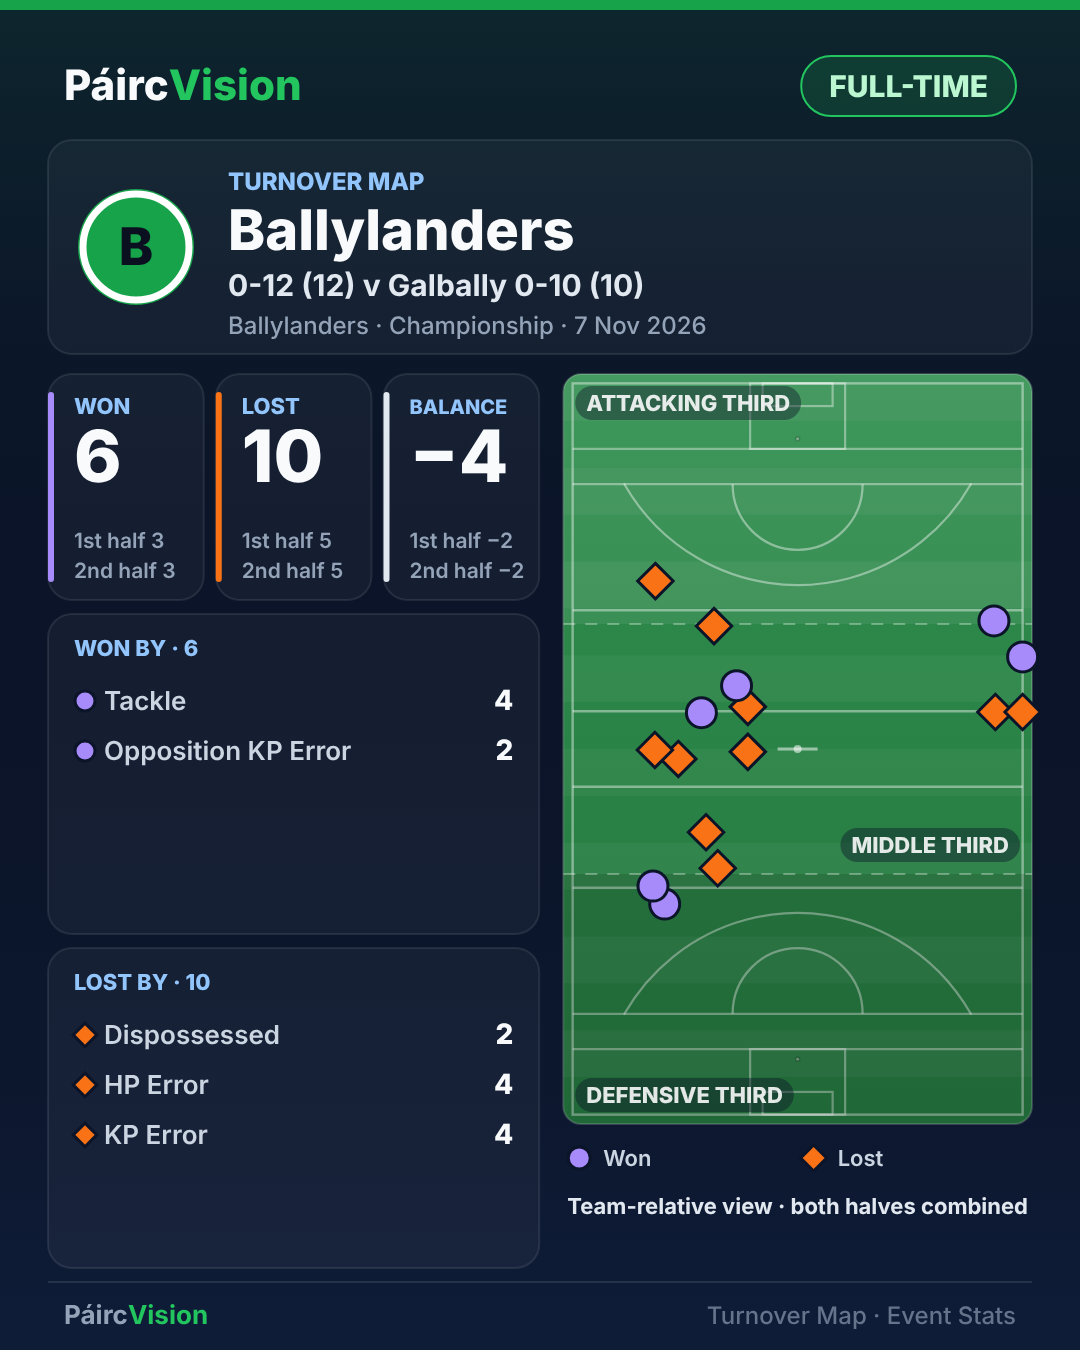
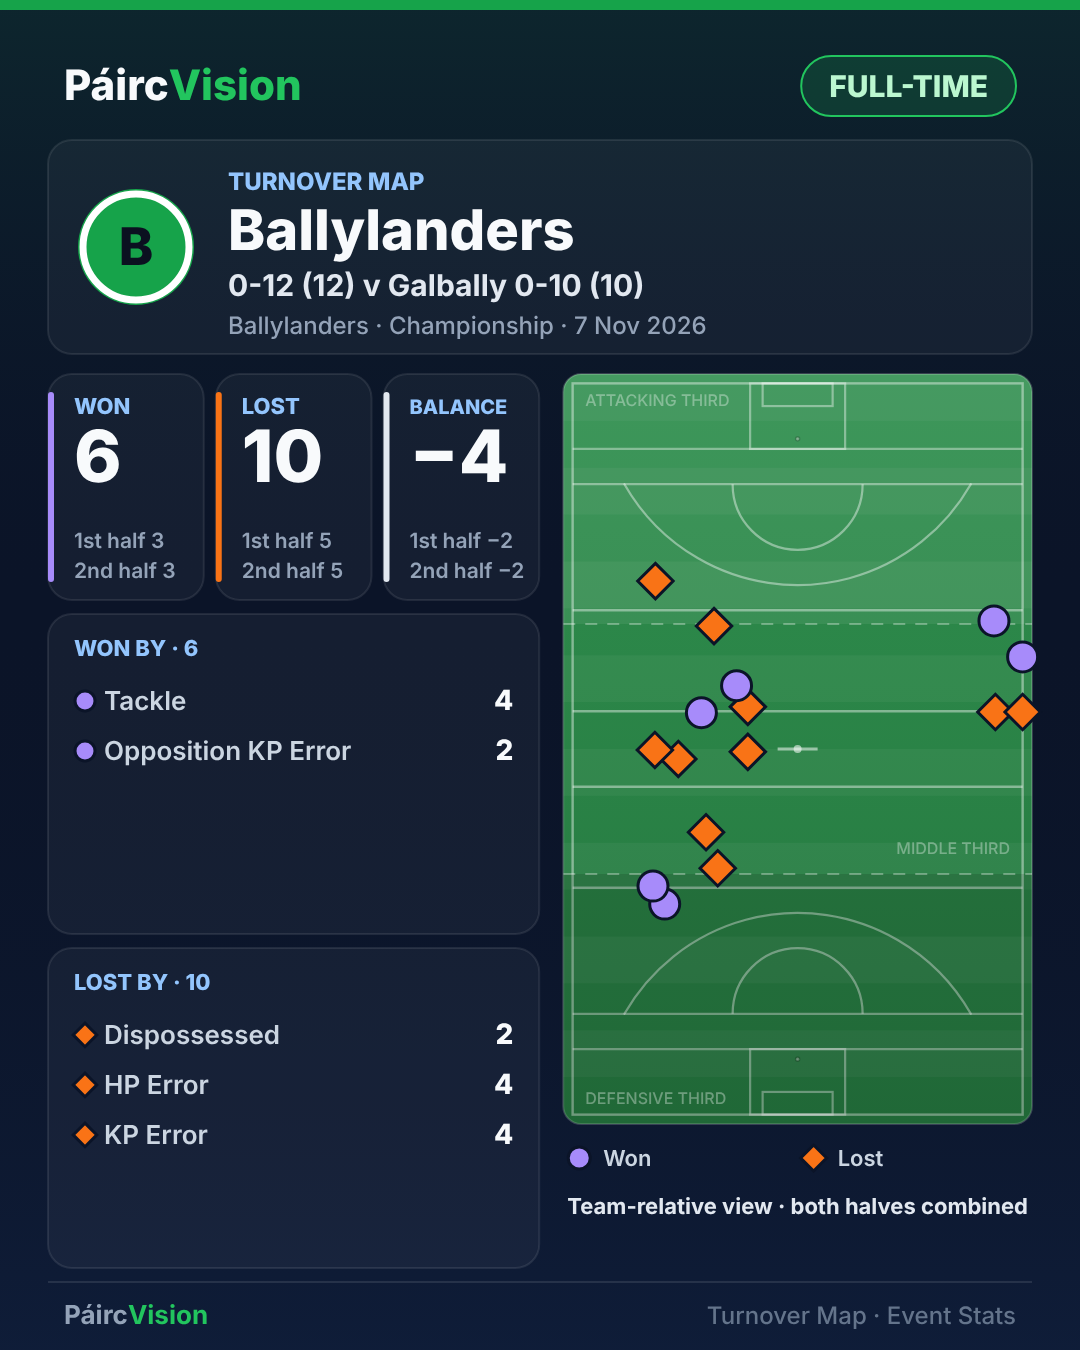
Turnover Map: zone labels as faint watermarks
Restyles only the three third labels; bands, boundaries, markers and
everything else are unchanged.

- No pill, border or badge: soft white text at 35% opacity, medium weight
  (500), 16 px (27% smaller than 22 px), light 1 px tracking.
- Same corner (top-left) of every third, moved only to clear a marker.
- Kept clear of the goal-area boxes: the widest label width is read from
  the sport's own pitch markings; tracking drops to 0, then the size steps
  down (not below 13 px) only if a label would otherwise cross a box side.
- Drawn under the markers: markers > pitch lines > boundaries > labels.

Scoring Map renders byte-identical to its approved version.

Claude-Session: https://claude.ai/code/session_01BwME96fzi3hA48yCVAZjvU

Changed region(s): [[0.5194, 0.7778, 0.7333, 0.84], [0.7639, 0.5911, 0.9472, 0.6533], [0.5194, 0.28, 0.7639, 0.3111]]

diff --git a/src/pro-tagger/dashboard/matchMapRenderer.test.ts b/src/pro-tagger/dashboard/matchMapRenderer.test.ts
@@ -3,7 +3,9 @@ import { pitchThirdOf, projectToPortrait, mapSourceFromSavedMatch, type MapTeamS
 import {
   MAP_HEIGHT,
   PITCH_THIRD_LABELS,
+  drawPitchThirds,
   pitchThirdLabelBoxes,
+  thirdLabelMaxWidth,
   pitchThirdRects,
   MAP_WIDTH,
   SHOT_MARKER_COLOURS,
@@ -30,7 +32,7 @@ import { buildTurnoverMapView } from "./turnoverMapView";
 // deterministic measureText (0.55 × font size per character).
 const CHAR_W = 0.55;
 type Op = { op: string; args: number[]; fill: string; stroke: string };
-type TextCall = { text: string; left: number; right: number; top: number; y: number; size: number };
+type TextCall = { text: string; left: number; right: number; top: number; y: number; size: number; color: string; font: string };
 
 function sizeOf(font: string): number {
   const m = /(\d+(?:\.\d+)?)px/.exec(font);
@@ -62,11 +64,11 @@ function recordingContext() {
         // Reads bottom-to-top from the (translated) origin, left-aligned, middle baseline.
         const ox = tf.tx + y;
         const oy = tf.ty - x;
-        texts.push({ text: t, left: ox - size / 2, right: ox + size / 2, top: oy - width, y: oy, size });
+        texts.push({ text: t, left: ox - size / 2, right: ox + size / 2, top: oy - width, y: oy, size, color: String(state.fillStyle), font: String(state.font) });
         return;
       }
       const left = tf.tx + (state.textAlign === "center" ? x - width / 2 : state.textAlign === "right" ? x - width : x);
-      texts.push({ text: t, left, right: left + width, top: tf.ty + y - size, y: tf.ty + y, size });
+      texts.push({ text: t, left, right: left + width, top: tf.ty + y - size, y: tf.ty + y, size, color: String(state.fillStyle), font: String(state.font) });
     },
     createLinearGradient: () => ({ addColorStop: () => undefined }),
     arc: record("arc"),
@@ -447,7 +449,7 @@ describe("Turnover Map pitch thirds", () => {
     const frame = pitchFrame({ x: 560, y: 374, w: 470, h: 752 }, 1);
     const width = () => 180;
     const free = pitchThirdLabelBoxes(frame, [], width);
-    expect(free.map((b) => [b.x, b.y])).toEqual(pitchThirdRects(frame).map((r) => [frame.x + 12, r.y0 + 12])); // top-left by default
+    expect(free.map((b) => [b.x, b.y])).toEqual(pitchThirdRects(frame).map((r) => [frame.x + 14, r.y0 + 14])); // top-left by default
     const onTopLeft = { x: free[2].x + 40, y: free[2].y + 16 };
     const moved = pitchThirdLabelBoxes(frame, [onTopLeft], width);
     expect(moved[0]).toEqual(free[0]);
@@ -470,11 +472,82 @@ describe("Turnover Map pitch thirds", () => {
         for (const label of Object.values(PITCH_THIRD_LABELS)) {
           const t = texts.find((x) => x.text === label)!;
           for (const p of pts) {
-            const clear = p.x + 21 <= t.left - 11 || p.x - 21 >= t.right + 11 || p.y + 21 <= t.top - 9 || p.y - 21 >= t.y + 9;
+            const clear = p.x + 21 <= t.left - 8 || p.x - 21 >= t.right + 8 || p.y + 21 <= t.top - 2 || p.y - 21 >= t.y + 6;
             expect(clear).toBe(true);
           }
         }
       }
+    }
+  });
+
+  it("labels are faint watermarks: medium weight, small, 35% white, no badge behind them (Home / Away, HT / FT)", () => {
+    for (const [src, scope] of [[htSrc, "HT"], [ftSrc, "FT"]] as const) {
+      for (const side of ["FOR", "OPP"] as MapTeamSide[]) {
+        const { ctx, ops, texts } = recordingContext();
+        drawTurnoverMap(ctx, buildTurnoverMapView(src(), side, scope));
+        const labels = texts.filter((t) => THIRD_LABEL_TEXTS.includes(t.text));
+        expect(labels).toHaveLength(3);
+        for (const t of labels) {
+          expect(t.color).toBe("rgba(255,255,255,0.35)");
+          expect(t.size).toBe(16); // 27% smaller than the previous 22 px
+          expect(t.font.startsWith("500 ")).toBe(true);
+        }
+        // No dark pill / badge fill anywhere on the page.
+        expect(ops.some((o) => o.op === "fill" && o.fill === "rgba(11,20,40,0.42)")).toBe(false);
+      }
+    }
+  });
+
+  it("labels never run into the goal-area boxes (every sport, Home / Away, HT / FT)", async () => {
+    const { getPitchConfig } = await import("../../core/pitch/pitch-config");
+    for (const sport of ["gaelic", "ladies_football", "hurling", "camogie"] as const) {
+      const pitchSport = sport === "ladies_football" ? "gaelic" : sport;
+      const boxes = getPitchConfig(pitchSport).markings.filter((m) => m.kind === "rect" && m.h < 90) as { y: number; h: number }[];
+      const leftSide = Math.min(...boxes.map((b) => b.y)) / 100;
+      const rightSide = Math.max(...boxes.map((b) => b.y + b.h)) / 100;
+      for (const [label, match] of [["HT", htFixtureMatch()], ["FT", ftFixtureMatch()]] as const) {
+        const src = mapSourceFromSavedMatch({ ...match, sport });
+        for (const side of ["FOR", "OPP"] as MapTeamSide[]) {
+          const { ctx, ops, texts } = recordingContext();
+          drawTurnoverMap(ctx, buildTurnoverMapView(src, side, label));
+          const frame = recordedFrame(ops, 1);
+          for (const t of texts.filter((x) => THIRD_LABEL_TEXTS.includes(x.text))) {
+            const onLeft = t.left < frame.x + frame.w / 2;
+            if (onLeft) expect(t.right).toBeLessThanOrEqual(frame.x + leftSide * frame.w - 8);
+            else expect(t.left).toBeGreaterThanOrEqual(frame.x + rightSide * frame.w + 8 - 0.5);
+          }
+        }
+      }
+    }
+  });
+
+  it("on a narrower pitch the labels shrink (never below 13 px) rather than cross a marking", () => {
+    // Real Turnover Map pitches are ~470 px wide (labels fit at 16 px). At 370 px the
+    // longest label needs a smaller size; 13 px is the floor for tiny pitches.
+    const frame = pitchFrame({ x: 0, y: 0, w: 370, h: 592 }, 1);
+    const { ctx, texts } = recordingContext();
+    drawPitchThirds(ctx, frame, [], "gaelic");
+    const labels = texts.filter((t) => THIRD_LABEL_TEXTS.includes(t.text));
+    expect(labels).toHaveLength(3);
+    const maxW = thirdLabelMaxWidth(frame, "gaelic");
+    for (const t of labels) {
+      expect(t.size).toBeLessThan(16);
+      expect(t.size).toBeGreaterThanOrEqual(13);
+      expect(t.right - t.left).toBeLessThanOrEqual(maxW);
+    }
+    expect(new Set(labels.map((t) => t.size)).size).toBe(1); // one consistent style
+  });
+
+  it("labels sit in the same corner of every third unless a marker is there", () => {
+    const view = buildTurnoverMapView(htSrc(), "OPP", "HT");
+    const { ctx, ops, texts } = recordingContext();
+    drawTurnoverMap(ctx, { ...view, markers: [] });
+    const frame = recordedFrame(ops, 1);
+    const rects = pitchThirdRects(frame);
+    for (const r of rects) {
+      const t = texts.find((x) => x.text === PITCH_THIRD_LABELS[r.third])!;
+      expect(t.left).toBeCloseTo(frame.x + 14 + 8, 6);
+      expect(t.y).toBeCloseTo(r.y0 + 14 + 18, 6);
     }
   });
 

diff --git a/src/pro-tagger/dashboard/matchMapRenderer.ts b/src/pro-tagger/dashboard/matchMapRenderer.ts
@@ -395,7 +395,28 @@ const THIRD_SHADE: Record<PitchThird, string | null> = {
   MIDDLE: null,
   DEFENSIVE: "rgba(0,0,0,0.12)",
 };
-const THIRD_LABEL_SIZE = 22;
+/** Watermark labels: soft, medium-weight, semi-transparent — never competing with the markers. */
+const THIRD_LABEL_SIZE = 16;
+const THIRD_LABEL_WEIGHT = 500;
+export const THIRD_LABEL_COLOUR = "rgba(255,255,255,0.35)";
+const THIRD_LABEL_MIN_SIZE = 13;
+/** Kept clear between a label and the goal-area rectangles' sides. */
+const THIRD_LABEL_MARKING_GAP = 8;
+
+/**
+ * Widest a corner label may be without running into the goal-area
+ * rectangles at either end: the corner labels sit between the touchline and
+ * those rectangles' sides. Read from the sport's own pitch markings
+ * (landscape y across the width → portrait x).
+ */
+export function thirdLabelMaxWidth(frame: PitchFrame, sport: ProTaggerSport): number {
+  const endBoxes = getPitchConfig(pitchSportFor(sport)).markings.filter(
+    (m): m is Extract<PitchMarking, { kind: "rect" }> => m.kind === "rect" && m.h < PITCH_WID * 0.9,
+  );
+  const nearestSide = endBoxes.length > 0 ? Math.min(...endBoxes.map((b) => b.y)) : PITCH_WID / 2;
+  const sideX = (nearestSide / PITCH_WID) * frame.w; // distance from the touchline to the box side
+  return sideX - THIRD_LABEL_INSET - THIRD_LABEL_PAD_X - THIRD_LABEL_MARKING_GAP;
+}
 
 /** Canvas y-ranges of the three bands on this pitch frame (top to bottom). */
 export function pitchThirdRects(frame: PitchFrame): { third: PitchThird; y0: number; y1: number }[] {
@@ -405,8 +426,10 @@ export function pitchThirdRects(frame: PitchFrame): { third: PitchThird; y0: num
     .map((b) => ({ third: b.third, y0: toY(b.top), y1: toY(b.bottom) }));
 }
 
-const THIRD_PILL_H = 34;
-const THIRD_PILL_INSET = 12;
+/** Clear space kept around a label's text when checking it against markers. */
+const THIRD_LABEL_PAD_X = 8;
+const THIRD_LABEL_BOX_H = 24;
+const THIRD_LABEL_INSET = 14;
 /** Furthest a turnover marker reaches from its centre (diamond 1.18 × r plus outline). */
 const TURNOVER_MARKER_REACH = MARKER_R * 1.18 + 3;
 
@@ -422,26 +445,31 @@ export function pitchThirdLabelBoxes(
   labelWidth: (third: PitchThird) => number,
 ): { third: PitchThird; x: number; y: number; w: number; h: number }[] {
   return pitchThirdRects(frame).map((r) => {
-    const w = labelWidth(r.third) + 22;
-    const left = frame.x + THIRD_PILL_INSET;
-    const right = frame.x + frame.w - THIRD_PILL_INSET - w;
-    const top = r.y0 + THIRD_PILL_INSET;
-    const bottom = r.y1 - THIRD_PILL_INSET - THIRD_PILL_H;
+    const w = labelWidth(r.third) + THIRD_LABEL_PAD_X * 2;
+    const left = frame.x + THIRD_LABEL_INSET;
+    const right = frame.x + frame.w - THIRD_LABEL_INSET - w;
+    const top = r.y0 + THIRD_LABEL_INSET;
+    const bottom = r.y1 - THIRD_LABEL_INSET - THIRD_LABEL_BOX_H;
     const corners = [[left, top], [left, bottom], [right, top], [right, bottom]] as const;
     const hits = ([x, y]: readonly [number, number]) =>
       markers.filter((m) =>
         m.x + TURNOVER_MARKER_REACH > x && m.x - TURNOVER_MARKER_REACH < x + w &&
-        m.y + TURNOVER_MARKER_REACH > y && m.y - TURNOVER_MARKER_REACH < y + THIRD_PILL_H).length;
+        m.y + TURNOVER_MARKER_REACH > y && m.y - TURNOVER_MARKER_REACH < y + THIRD_LABEL_BOX_H).length;
     let best = corners[0];
     for (const c of corners) {
       if (hits(c) === 0) { best = c; break; }
       if (hits(c) < hits(best)) best = c;
     }
-    return { third: r.third, x: best[0], y: best[1], w, h: THIRD_PILL_H };
+    return { third: r.third, x: best[0], y: best[1], w, h: THIRD_LABEL_BOX_H };
   });
 }
 
-export function drawPitchThirds(ctx: CanvasRenderingContext2D, frame: PitchFrame, markers: readonly { x: number; y: number }[] = []): void {
+export function drawPitchThirds(
+  ctx: CanvasRenderingContext2D,
+  frame: PitchFrame,
+  markers: readonly { x: number; y: number }[] = [],
+  sport: ProTaggerSport = "gaelic",
+): void {
   const rects = pitchThirdRects(frame);
   ctx.save();
   roundRectPath(ctx, frame.x, frame.y, frame.w, frame.h, 18);
@@ -464,14 +492,27 @@ export function drawPitchThirds(ctx: CanvasRenderingContext2D, frame: PitchFrame
     ctx.stroke();
   }
   ctx.setLineDash([]);
-  // Small labels on a faint pill, in a corner of each third clear of markers.
-  ctx.font = font(800, THIRD_LABEL_SIZE);
+  // Faint watermark labels (no badge): the same corner of every third
+  // (top-left), moved to another corner only to stay clear of a marker.
+  // One style for all three labels: light tracking at 16 px if the longest
+  // label fits beside the goal-area box, else no tracking, else a smaller size.
+  const maxW = thirdLabelMaxWidth(frame, sport);
+  const tracks = "letterSpacing" in ctx;
+  const widest = (size: number, tracking: string) => {
+    ctx.font = font(THIRD_LABEL_WEIGHT, size);
+    if (tracks) ctx.letterSpacing = tracking;
+    return Math.max(...Object.values(PITCH_THIRD_LABELS).map((l) => ctx.measureText(l).width));
+  };
+  let size = THIRD_LABEL_SIZE;
+  let tracking = "1px";
+  if (widest(size, tracking) > maxW) tracking = "0px";
+  while (size > THIRD_LABEL_MIN_SIZE && widest(size, tracking) > maxW) size -= 1;
+  widest(size, tracking); // leave the chosen font / tracking set for measuring and drawing
   const boxes = pitchThirdLabelBoxes(frame, markers, (third) => ctx.measureText(PITCH_THIRD_LABELS[third]).width);
   for (const b of boxes) {
-    roundRectPath(ctx, b.x, b.y, b.w, b.h, b.h / 2);
-    ctx.fillStyle = "rgba(11,20,40,0.42)";
-    ctx.fill();
-    text(ctx, PITCH_THIRD_LABELS[b.third], b.x + 11, b.y + 25, { weight: 800, size: THIRD_LABEL_SIZE, color: "rgba(255,255,255,0.88)" });
+    text(ctx, PITCH_THIRD_LABELS[b.third], b.x + THIRD_LABEL_PAD_X, b.y + 18, {
+      weight: THIRD_LABEL_WEIGHT, size, color: THIRD_LABEL_COLOUR,
+    });
   }
   ctx.restore();
 }
@@ -808,7 +849,7 @@ export function drawTurnoverMap(ctx: CanvasRenderingContext2D, view: TurnoverMap
   // Thirds only when the map is team-relative: with positions shown as
   // captured, "attacking" / "defensive" would not be verified.
   if (view.orientation.status === "ATTACKING_UP") {
-    drawPitchThirds(ctx, frame, view.markers.flatMap((m) => (m.point ? [framePoint(frame, m.point)] : [])));
+    drawPitchThirds(ctx, frame, view.markers.flatMap((m) => (m.point ? [framePoint(frame, m.point)] : [])), view.sport);
   }
   for (const m of view.markers) {
     if (!m.point) continue;
